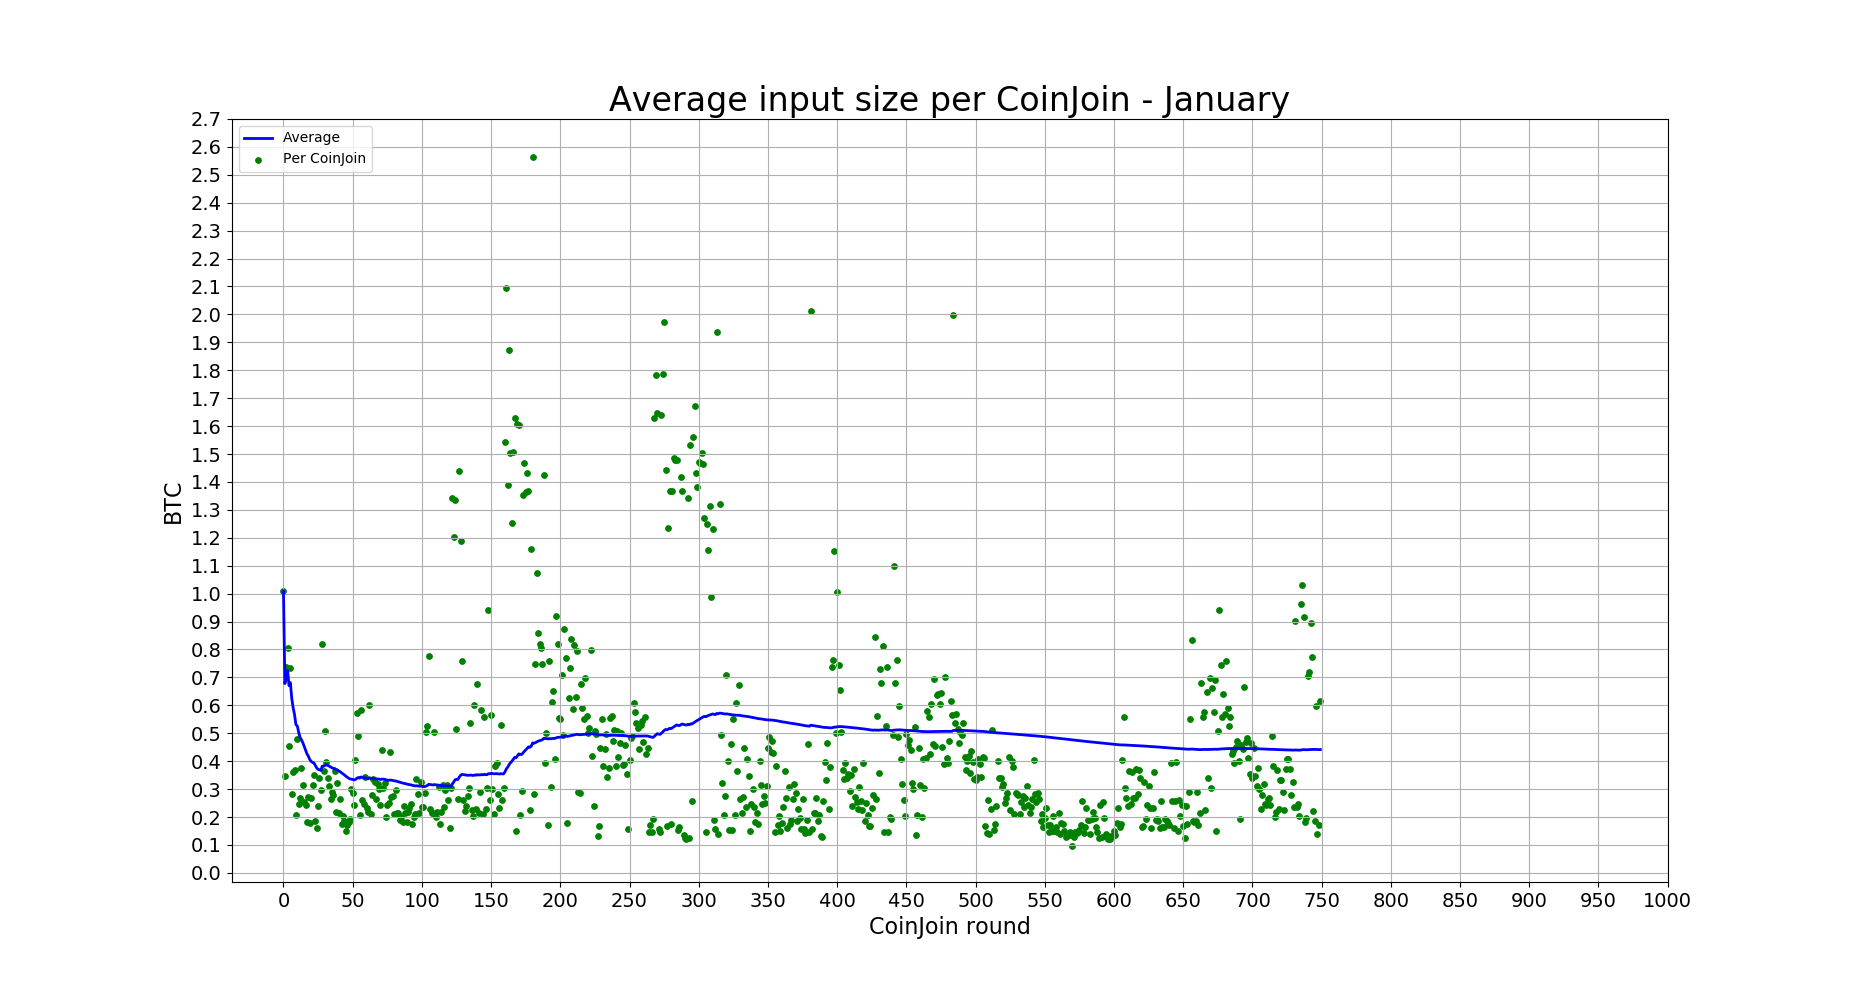
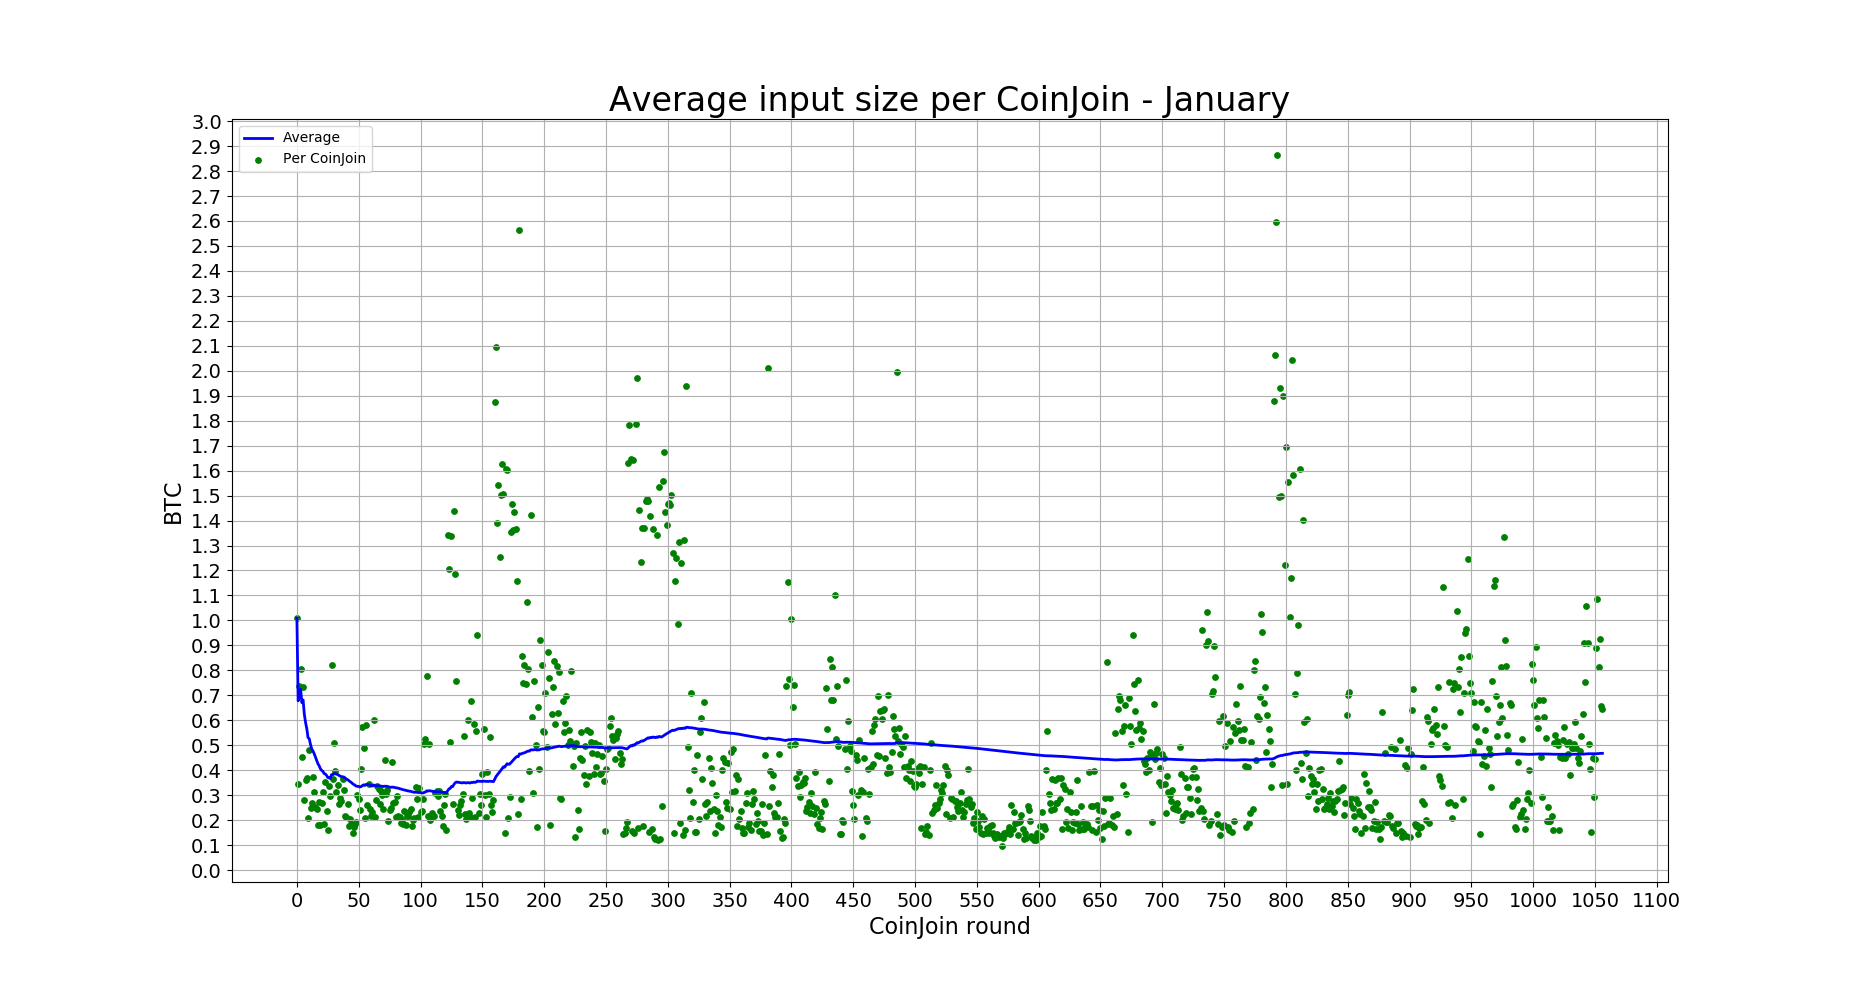
Final update january (#2)
* Upload updated January images.
* Remove Coordinator stats since Coordinator address is not fixed anymore.
* Add Wasabi CoinJoin criteria.
* Small improvements and bugfixes.

diff --git a/Dont_Trust_Verify.md b/Dont_Trust_Verify.md
@@ -21,13 +21,22 @@ There are many different Blockchain explorers that offer API, pick the one that 
 Another way of getting the data is to use your own full node. 
 
 *Useful links*: 
-* https://github.com/jgarzik/python-bitcoinrpc            
-* https://en.bitcoin.it/wiki/Original_Bitcoin_client/API_calls_list
-* https://en.bitcoin.it/wiki/API_reference_(JSON-RPC)               
+* https://bitcoin.org/en/developer-reference#bitcoin-core-apis
+* https://en.bitcoin.it/wiki/API_reference_(JSON-RPC)                    
 * https://github.com/nopara73/WasabiVsSamourai
 * https://github.com/jgmontoya/wasabi-cj-stats
 
 ### Analyze the data
+
+A Bitcoin transaction is counted as a Wasabi "CoinJoin round" if it satisfies the following criteria:
+
+* Number of equal value outputs >2, only the most frequent equal value output [denomination](https://docs.wasabiwallet.io/FAQ/FAQ-UseWasabi.html#what-are-the-equal-denominations-created-in-one-mixing-round) is counted
+* The most frequent equal value output [denomination](https://docs.wasabiwallet.io/FAQ/FAQ-UseWasabi.html#what-are-the-equal-denominations-created-in-one-mixing-round) has to be between `0.0945 and 0.1055` or between `0.189 and 0.211`
+* All the inputs and outputs have to be bech32 addresses (Starting with "bc1")
+* One of the output has to be lower than `0.05` (Coordinator fee)
+* Number of inputs >= Number of equal value outputs, only the most frequent equal value output [denomination](https://docs.wasabiwallet.io/FAQ/FAQ-UseWasabi.html#what-are-the-equal-denominations-created-in-one-mixing-round) is counted
+
+> Keep in mind that if you use different criteria, you may end up with different results.
 
 Once you have the data you are interested in, you can work on it using your favorite programming language. 
 Here there is the complete list of stats used and their exact calculation. If you find any error, or something doesn't add up, please let me know so I can fix it.
@@ -44,8 +53,8 @@ Here there is the complete list of stats used and their exact calculation. If yo
 * [Total number equal outputs](Dont_Trust_Verify.md#total-number-equal-outputs)
 * [Percentage equal outputs reused per CoinJoin](Dont_Trust_Verify.md#percentage-equal-outputs-reused-per-coinjoin)
 * [Total percentage equal outputs reused](Dont_Trust_Verify.md#total-percentage-equal-outputs-reused)
-* [Coordinator fees per CoinJoin](Dont_Trust_Verify.md#coordinator-fees-per-coinjoin)
-* [Total coordinator fees](Dont_Trust_Verify.md#total-coordinator-fees)
+* [Coordinator fees per CoinJoin](Dont_Trust_Verify.md#coordinator-fees-per-coinjoin) (**Removed since [#3035](https://github.com/zkSNACKs/WalletWasabi/pull/3035)**)
+* [Total coordinator fees](Dont_Trust_Verify.md#total-coordinator-fees) (**Removed since [#3035](https://github.com/zkSNACKs/WalletWasabi/pull/3035)**)
 
 ---
 
@@ -160,13 +169,13 @@ C > 3 |  | 1 > X
          | ...
 ```
 
-`total number addresses = A,B,C = 3`
+`total number input addresses = A,B,C = 3`
 
 `total number inputs = A,B,C = 3`
 
 `total number remixers = 0`
 
-`total number addresses reused = 0`
+`total number input addresses reused = 0`
 
 `total number inputs reused = 0`
 
@@ -182,13 +191,13 @@ E > 3 |  | 1 > U
          | ...
 ```
 
-`total number addresses = A,B,C,Z,E = 5`
+`total number input addresses = A,B,C,Z,E = 5`
 
 `total number inputs = A,B,C,A,Z,E = 6`
 
 `total number remixers = Z = 1`
 
-`total number addresses reused = A = 1`
+`total number input addresses reused = A = 1`
 
 `total number inputs reused = A,A = 2`
 
@@ -237,7 +246,7 @@ E > 3 |  | 1 > U
 
 **The green line** is the percentage of remixers on the total number of addresses that partecipated as input in a CoinJoin. An input address is counted as a remixer if it spends a previous equal value output and if it appears as input not more than once and as equal value output not more than once (either in the same CoinJoin or in different ones).
 
-`percentage addresses = number(total remixers) / number(total input addresses)`
+`percentage input addresses = number(total remixers) / number(total input addresses)`
 
 **The blue line** is the percentage of remixers on the total number of inputs.
 
@@ -257,7 +266,7 @@ C > 3 |  | 1 > X
          | ...
 ```
 
-`percentage addresses = 0%`
+`percentage input addresses = 0%`
 
 `percentage inputs = 0%`
 
@@ -272,7 +281,7 @@ E > 3 |  | 1 > U
          | change
          | ...
 ```
-`percentage addresses = (Z)/(A,B,C,Z,E) = 1/5 = 20%`
+`percentage input addresses = (Z)/(A,B,C,Z,E) = 1/5 = 20%`
 
 `percentage inputs = (Z)/(A,B,C,A,Z,E) = 1/6 = 16%`
 
@@ -280,7 +289,7 @@ E > 3 |  | 1 > U
 
 **The orange dots** are the distribution of the percentage of addresses reused for each CoinJoin. An input address is counted as reused if it appears as input in a CoinJoin more than once (either in the same CoinJoin or in different ones).
 
-`percentage addresses reuse per CoinJoin = number(CoinJoin addresses reused) / number(CoinJoin input addresses)`
+`percentage input addresses reuse per CoinJoin = number(CoinJoin input addresses reused) / number(CoinJoin input addresses)`
 
 **The red dots** are the distribution of the percentage of inputs that belong to reused addresses.
 
@@ -298,19 +307,19 @@ inputs
 A,A,B,B,C,D,E
 ```
 
-`n° addresses reused = A,B = 2`
+`n° input addresses reused = A,B = 2`
 
 `n° inputs reused = A,A,B,B = 4`
 
-`tot n° addresses = A,B,C,D,E = 5`
+`tot n° input addresses = A,B,C,D,E = 5`
 
 `tot n° inputs = A,A,B,B,C,D,E = 7`
 
-`percentage addresses reuse per CoinJoin = n° addresses reused / n° addresses = 2/5 = 40%`
+`percentage input addresses reused per CoinJoin = n° input addresses reused / n° input addresses = 2/5 = 40%`
 
 `percentage inputs reused per CoinJoin = n° inputs reused / n° inputs = 4/7 = 57%`
 
-`average % address reuse per CoinJoin = 40/1 = 40%`
+`average % input address reused per CoinJoin = 40/1 = 40%`
 
 `average % inputs reused per CoinJoin = 57/1 = 57%`
 
@@ -322,19 +331,19 @@ inputs
 F,C,G,H,I,I
 ```
 
-`n° addresses reused = C,I = 2`
+`n° input addresses reused = C,I = 2`
 
 `n° inputs reused = C,I,I = 3`
 
-`tot n° addresses = F,C,G,H,I = 5`
+`tot n° input addresses = F,C,G,H,I = 5`
 
 `tot n° inputs = F,C,G,H,I,I = 6`
 
-`percentage addresses reuse per CoinJoin = n° addresses reused / n° addresses = 2/5 = 40%`
+`percentage input addresses reused per CoinJoin = n° input addresses reused / n° input addresses = 2/5 = 40%`
 
-`percentage addresses reuse per CoinJoin = n° inputs reused / n° inputs = 3/6 = 50%`
+`percentage inputs reused per CoinJoin = n° inputs reused / n° inputs = 3/6 = 50%`
 
-`average % address reuse per CoinJoin = (40+40)/2 = 40%`
+`average % input addresses reused per CoinJoin = (40+40)/2 = 40%`
 
 `average % inputs reused per CoinJoin = (57+50)/2 = 53.5%`
 
@@ -342,7 +351,7 @@ F,C,G,H,I,I
 
 **The orange line** is the percentage of address reuse on the total number of addresses that partecipated as input in a CoinJoin. An input address is counted as reused if it appears as input in a CoinJoin more than once (either in the same CoinJoin or in different ones).
 
-`percentage addresses reused = number(total addresses reused) / number(total input addresses)`
+`percentage input addresses reused = number(total input addresses reused) / number(total input addresses)`
 
 **The red line** is the percentage of inputs that belong to reused addresses on the total number of inputs.
 
@@ -358,15 +367,15 @@ inputs
 A,A,B,B,C,D,E
 ```
 
-`n° addresses reused = A,B = 2`
+`n° input addresses reused = A,B = 2`
 
 `n° inputs reused = A,A,B,B = 4`
 
-`tot n° addresses = A,B,C,D,E = 5`
+`tot n° input addresses = A,B,C,D,E = 5`
 
 `tot n° inputs = A,A,B,B,C,D,E = 7`
 
-`percentage addresses reused = n° addresses reused / tot n° addresses = 2/5 = 40%`
+`percentage input addresses reused = n° input addresses reused / tot n° input addresses = 2/5 = 40%`
 
 `percentage inputs reused = n° inputs reused / tot n° inputs = 4/7 = 57%`
 
@@ -378,15 +387,15 @@ inputs
 F,C,G,H,I,I
 ```
 
-`n° addresses reused = A,B,C,I = 4`
+`n° input addresses reused = A,B,C,I = 4`
 
 `n° inputs reused = A,A,B,B,C,C,I,I = 8`
 
-`tot n° addresses = A,B,C,D,E,F,G,H,I = 9`
+`tot n° input addresses = A,B,C,D,E,F,G,H,I = 9`
 
 `tot n° inputs = A,A,B,B,C,D,E,F,C,G,H,I,I = 13`
 
-`percentage addresses reused = n° addresses reused / tot n° addresses = 4/9 = 44%`
+`percentage input addresses reused = n° input addresses reused / tot n° input addresses = 4/9 = 44%`
 
 `percentage inputs reused = n° inputs reused / tot n° inputs = 8/13 = 61%`
 
@@ -485,12 +494,12 @@ F > 3 |  | 1 > V
 
 `percentage equal value outputs reused = (Z,Z)/(Z,Y,X,Z,W,V) = 2/6 = 33%`
 
-* #### Coordinator fees per CoinJoin
+* #### Coordinator fees per CoinJoin 
 
 **The green dots** are the distribution of the coordinator fees for each CoinJoin, the fees are calculate based on the values of the Coordinator address outputs.
 
 **The blue line** is the average of the distribution.
 
-* #### Total coordinator fees
+* #### Total coordinator fees 
 
 **The green line** is the comulative sum of the coordinator fees, the fees are calculate based on the values of the Coordinator address outputs.

diff --git a/README.md b/README.md
@@ -22,7 +22,8 @@ For stats about the previous months, look [here](months_list.md).
 
 ---
 
-## January (ongoing)
+## January
+**1057 CoinJoin round**
 
 ---
 
@@ -33,35 +34,33 @@ For stats about the previous months, look [here](months_list.md).
 
 **Last values:**
 
-* Blue line = 32.61
+* Blue line = 34.1
 
 > The spike in CoinJoin per day is the result of this test: 
-
-> https://www.reddit.com/r/WasabiWallet/comments/elwr05/faster_coinjoins_backend_countdown_timer_reduced/
-
-> You can see effect of this test on other stats too.
+https://www.reddit.com/r/WasabiWallet/comments/elwr05/faster_coinjoins_backend_countdown_timer_reduced/  
+You can see effect of this test on other stats too.
 
 #### [Partecipants per CoinJoin](Dont_Trust_Verify.md#partecipants-per-coinjoin)
 ![partecipants_per_CoinJoin](2020/January/partecipants_per_CoinJoin.png)
 
 **Last values:**
 
-* Blue line = 58.85
+* Blue line = 57.17
 
 #### [Average input size per CoinJoin](Dont_Trust_Verify.md#average-input-size-per-coinjoin)
 ![average_input_size_per_CoinJoin](2020/January/average_input_size_per_CoinJoin.png)
 
 **Last values:**
 
-* Blue line = 0.44
+* Blue line = 0.47
 
 #### [Total volume](Dont_Trust_Verify.md#total-volume)
 ![total_volume](2020/January/total_volume.png)
 
 **Last values:**
 
-* Green line = 25193.6
-* Blue line = 10660.6
+* Green line = 36263
+* Blue line = 15410
 
 ### INPUTS
 
@@ -70,42 +69,42 @@ For stats about the previous months, look [here](months_list.md).
 
 **Last values:**
 
-* Orange line = 1130
-* Red line = 3032
-* Light blue line = 22188
-* Green line = 55336
-* Blue line = 57238
+* Orange line = 1606
+* Red line = 4277
+* Light blue line = 31566
+* Green line = 75142
+* Blue line = 77813
 
 #### [Percentage remixers per CoinJoin](Dont_Trust_Verify.md#percentage-remixers-per-coinjoin)
 ![percentage_remixers_per_CoinJoin](2020/January/percentage_remixers_per_CoinJoin.png)
 
 **Last values:**
 
-* Blue line = 40.04
+* Blue line = 42.9
 
 #### [Total percentage remixers](Dont_Trust_Verify.md#total-percentage-remixers)
 ![total_percentage_remixers](2020/January/total_percentage_remixers.png)
 
 **Last values:**
 
-* Green line = 40.1
-* Blue line = 38.76
+* Green line = 42
+* Blue line = 40.56
 
 #### [Percentage address reuse per CoinJoin](Dont_Trust_Verify.md#percentage-address-reuse-per-coinjoin)
 ![percentage_address_reuse_per_CoinJoin](2020/January/percentage_address_reuse_per_CoinJoin.png)
 
 **Last values:**
 
-* Orange line = 2.7
-* Red line = 3.31
+* Orange line = 2.83
+* Red line = 3.42
 
 #### [Total percentage address reuse](Dont_Trust_Verify.md#total-percentage-address-reuse)
 ![total_percentage_address_reuse](2020/January/total_percentage_address_reuse.png)
 
 **Last values:**
 
-* Orange line = 2.04
-* Red line = 5.3
+* Orange line = 2.14
+* Red line = 5.49
 
 ### EQUAL OUTPUTS
 
@@ -114,41 +113,25 @@ For stats about the previous months, look [here](months_list.md).
 
 **Last values:**
 
-* Orange line = 1170
-* Red line = 2817
-* Green line = 59174
-* Blue line = 60821
+* Orange line = 1795
+* Red line = 4267
+* Green line = 81201
+* Blue line = 83673
 
 #### [Percentage equal outputs reused per CoinJoin](Dont_Trust_Verify.md#percentage-equal-outputs-reused-per-coinjoin)
 ![percentage_equal_outputs_reused_per_CoinJoin](2020/January/percentage_equal_outputs_reused_per_CoinJoin.png)
 
 **Last values:**
 
-* Red line = 2.59
+* Red line = 2.8
 
 #### [Total percentage outputs reused](Dont_Trust_Verify.md#total-percentage-equal-outputs-reused)
 ![total_percentage_output_reused](2020/January/total_percentage_outputs_reused.png)
 
 **Last values:**
 
-* Orange line = 1.98
-* Red line = 4.63
-
-### FEES
-
-#### [Coordinator fees per CoinJoin](Dont_Trust_Verify.md#coordinator-fees-per-coinjoin)
-![coordinator_fees_per_CoinJoin](2020/January/coordinator_fees_per_CoinJoin.png)
-
-**Last values:**
-
-* Blue line = 0.0118
-
-#### [Total coordinator fees](Dont_Trust_Verify.md#total-coordinator-fees)
-![total_coordinator_fees_](2020/January/total_coordinator_fees.png)
-
-**Last values:**
-
-* Green line = 8.8464
+* Orange line = 2.21
+* Red line = 5.1
 
 ---
 
